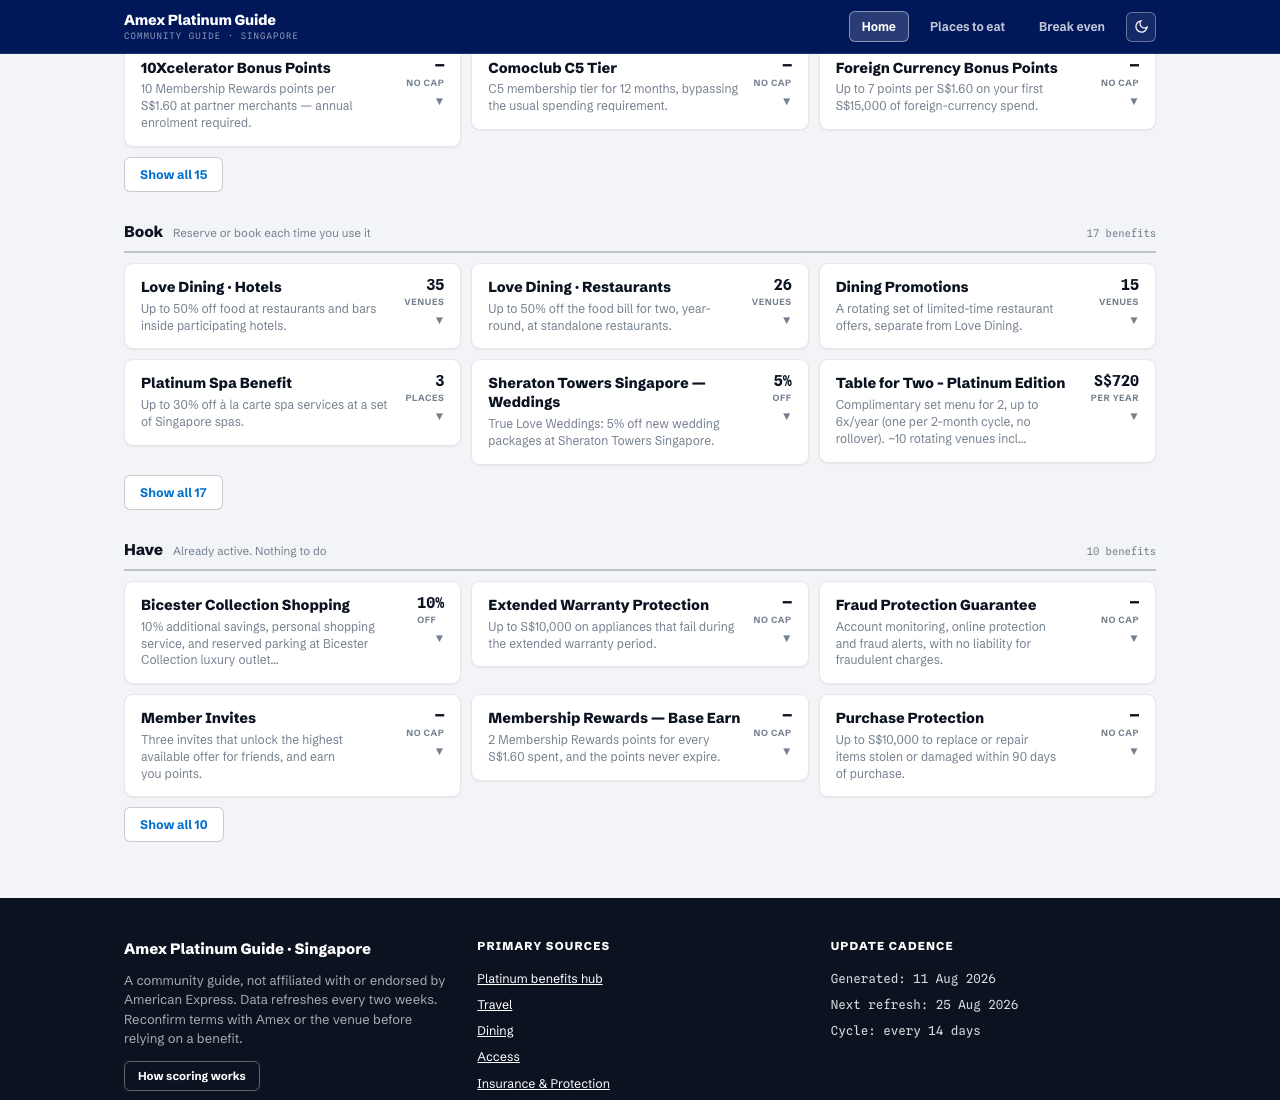
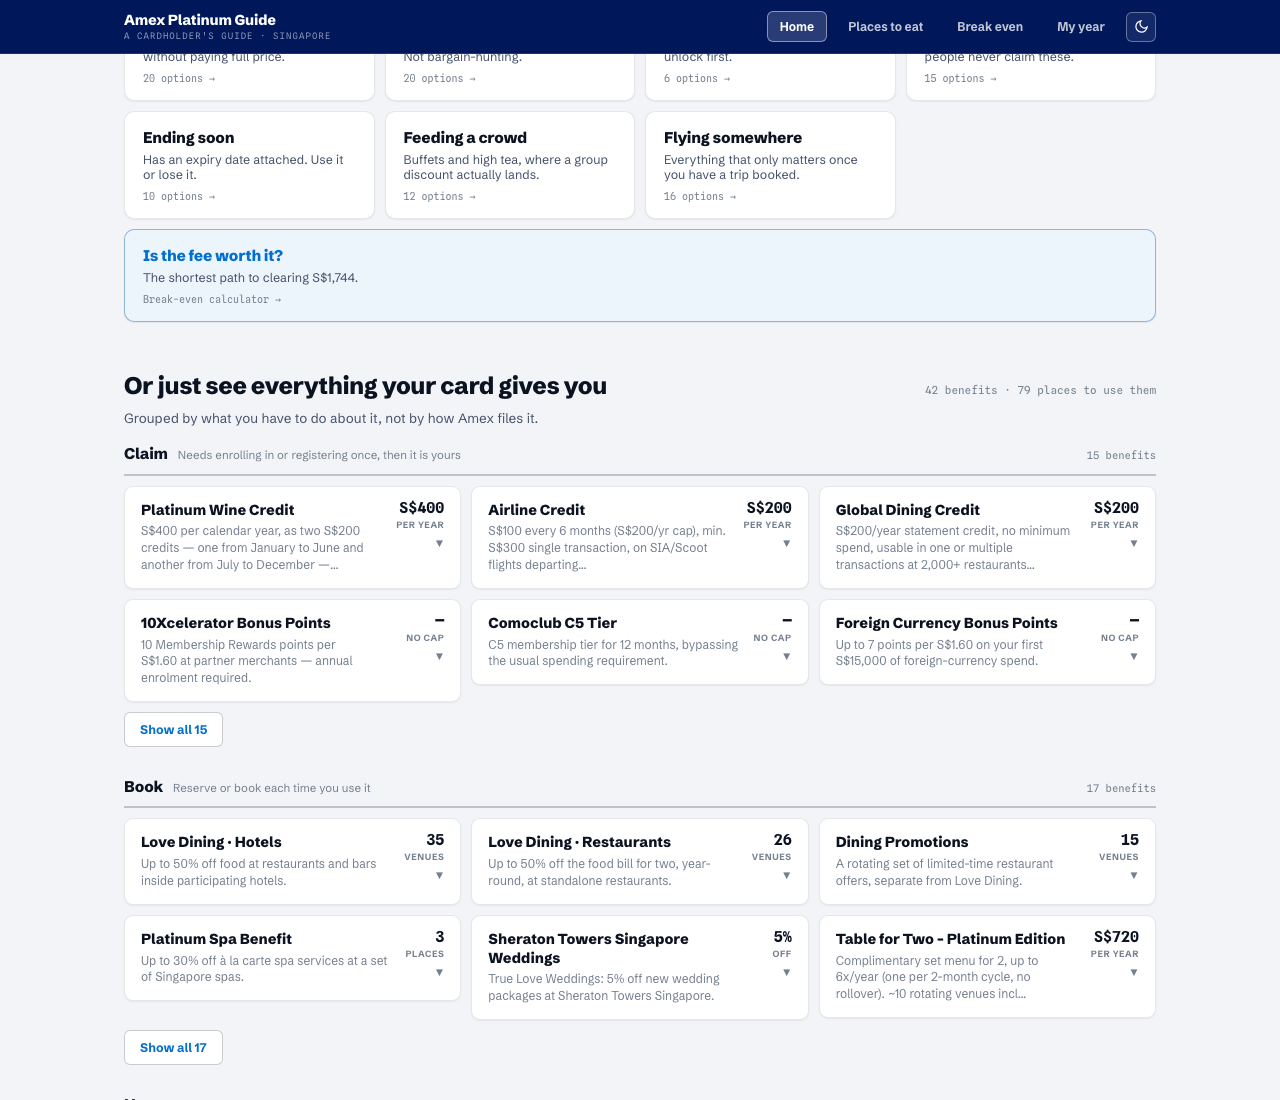
Add the year log, and re-cut the break-even path to five benefits
The tracker. Anything with a gross value can be ticked off as you use it,
benefit or venue alike, because a S$45 saving at one restaurant is worth
exactly as much as S$45 of statement credit. The count is kept in localStorage
and never leaves the browser, which the page says out loud.

It changes what the hero is for. Before you have used anything it makes the
case, five benefits clear the fee. After that it reports where you actually
are, and the nav carries a running total. That also settles the minimum versus
maximum problem Chin raised: the number stops being a claim about a typical
cardholder and becomes a fact about this one.

Caps are enforced in the arithmetic, not just the interface, so a benefit
capped at six uses cannot be logged a seventh time from anywhere.

The break-even path is re-cut from six benefits to five, and it is a better
path on every axis: Table for Two now runs to its full annual cap of six
rather than three, which lets the airline credit drop out entirely. Total goes
from S$1,850 to S$2,010 and the spending needed to collect it halves, from
S$1,200 to S$600. The first four benefits reach S$1,610, ninety-two per cent of
the fee, with no extra spending at all.

Two figures were wrong and are now derived rather than written down. The gloss
counted rendered rows as uses, so it said five uses for a path with eleven, and
it hard-coded "the two statement credits" when the re-cut leaves only one that
needs a qualifying transaction.
[…]

diff --git a/site/index.html b/site/index.html
@@ -78,6 +78,7 @@ button{font-family:var(--sans);cursor:pointer;}
 .hdr__nav{display:flex;gap:8px;align-items:center;}
 .tab{border:1px solid transparent;background:none;color:rgba(255,255,255,0.75);border-radius:6px;padding:7px 12px;font-size:12px;font-weight:700;white-space:nowrap;}
 .tab[aria-current="page"]{background:rgba(255,255,255,0.16);color:#fff;border-color:rgba(255,255,255,0.45);}
+.tab__n{margin-left:6px;font-family:var(--mono);font-size:10px;font-weight:700;background:#4ADE80;color:#04240f;border-radius:99px;padding:1px 6px;}
 .themebtn{border:1px solid rgba(255,255,255,0.35);background:rgba(255,255,255,0.08);color:#fff;border-radius:6px;width:30px;height:30px;display:inline-flex;align-items:center;justify-content:center;padding:0;flex:0 0 auto;}
 
 /* ── hero ───────────────────────────────────────────────────────────── */
@@ -90,8 +91,9 @@ button{font-family:var(--sans);cursor:pointer;}
 .hero__lede{margin:0;font-size:15px;line-height:1.5;color:rgba(255,255,255,0.78);max-width:46ch;text-wrap:pretty;}
 /* The one number the product exists to answer, so it sits in the hero. */
 .fee{margin-top:22px;max-width:42ch;}
-.fee__row{display:flex;justify-content:space-between;align-items:baseline;gap:12px;font-family:var(--mono);font-size:11px;color:rgba(255,255,255,0.75);margin-bottom:7px;}
-.fee__big{font-size:19px;font-weight:700;color:#fff;font-variant-numeric:tabular-nums;}
+.fee__big{margin:0 0 5px;font-size:clamp(17px,2vw,20px);font-weight:800;color:#fff;letter-spacing:-0.01em;line-height:1.25;}
+.fee__note{margin:0 0 10px;font-size:13px;color:rgba(255,255,255,0.7);}
+.fee__sub{margin:8px 0 0;font-family:var(--mono);font-size:10.5px;color:rgba(255,255,255,0.6);}
 .fee__bar{height:6px;border-radius:3px;background:rgba(255,255,255,0.16);overflow:hidden;}
 .fee__fill{height:100%;border-radius:3px;background:#4ADE80;transition:width .8s cubic-bezier(.2,.7,.2,1);}
 .prov{margin:20px 0 0;font-size:13px;line-height:1.55;color:rgba(255,255,255,0.62);max-width:44ch;}
@@ -192,6 +194,30 @@ button{font-family:var(--sans);cursor:pointer;}
 .pick__body{padding:12px 15px 13px;border-top:1px solid var(--line);}
 .morebtn{margin-top:10px;}
 
+/* ── the year log ───────────────────────────────────────────────────── */
+.stepper{display:inline-flex;align-items:center;gap:0;border:1px solid var(--linestrong);border-radius:6px;overflow:hidden;background:var(--card);}
+.stepper button{border:0;background:none;color:var(--blue);font-size:14px;font-weight:800;line-height:1;padding:6px 11px;font-family:var(--mono);}
+.stepper button:disabled{color:var(--muted);cursor:not-allowed;}
+.stepper__n{font-family:var(--mono);font-size:11.5px;font-weight:700;color:var(--ink);padding:0 8px;min-width:62px;text-align:center;font-variant-numeric:tabular-nums;}
+.logrow{display:flex;align-items:center;justify-content:space-between;gap:12px;margin-top:11px;padding-top:11px;border-top:1px solid var(--line);}
+.logrow__lbl{font-size:11.5px;color:var(--muted);font-weight:600;}
+.logrow__lbl b{color:var(--status-good);}
+.tally{background:var(--card);border:1px solid var(--line);border-radius:10px;padding:clamp(18px,3vw,26px);box-shadow:var(--shadow);margin-bottom:22px;}
+.tally__big{font-family:var(--mono);font-size:clamp(30px,5vw,40px);font-weight:700;color:var(--blue);font-variant-numeric:tabular-nums;line-height:1;}
+.tally__big--done{color:var(--status-good);}
+.tally__gloss{color:var(--sec);font-size:13.5px;max-width:52ch;margin:9px 0 0;}
+.tally__gloss b{color:var(--ink);}
+.tally__bar{height:10px;background:var(--sunk);border-radius:5px;overflow:hidden;margin:16px 0 0;}
+.tally__fill{height:100%;border-radius:5px;background:var(--blue);transition:width .8s cubic-bezier(.2,.7,.2,1);}
+.tally__fill--done{background:var(--status-good);}
+.logged{background:var(--card);border:1px solid var(--line);border-radius:10px;box-shadow:var(--shadow);overflow:hidden;}
+.logged__row{display:flex;align-items:center;justify-content:space-between;gap:14px;padding:12px 16px;border-top:1px solid var(--line);}
+.logged__row:first-child{border-top:0;}
+.logged__l{min-width:0;}
+.logged__name{display:block;font-size:13.5px;font-weight:700;color:var(--ink);}
+.logged__meta{display:block;font-size:11.5px;color:var(--muted);margin-top:2px;}
+.logged__v{font-family:var(--mono);font-size:14px;font-weight:700;color:var(--ink);font-variant-numeric:tabular-nums;white-space:nowrap;}
+
 /* ── payback ────────────────────────────────────────────────────────── */
 .pb__intro{max-width:70ch;margin-bottom:18px;}
 .pb__intro h2{font-size:clamp(20px,2.6vw,26px);font-weight:800;letter-spacing:-0.015em;margin:0 0 6px;color:var(--ink);}
@@ -249,6 +275,7 @@ button{font-family:var(--sans);cursor:pointer;}
       <button type="button" class="tab" data-act="view" data-view="home" aria-current="page">Home</button>
       <button type="button" class="tab" data-act="view" data-view="places">Places to eat</button>
       <button type="button" class="tab" data-act="view" data-view="payback">Break even</button>
+      <button type="button" class="tab" data-act="view" data-view="year">My year<span id="tab-year-n" class="tab__n" hidden></span></button>
       <button type="button" class="themebtn" data-act="theme" id="themebtn" aria-label="Switch to dark mode" title="Switch to dark mode">
         <svg id="theme-icon" width="15" height="15" viewBox="0 0 24 24" fill="none" stroke="currentColor" stroke-width="2" stroke-linecap="round" aria-hidden="true"></svg>
       </button>
@@ -263,8 +290,10 @@ button{font-family:var(--sans);cursor:pointer;}
       <h1>Make your Platinum Card pay for itself</h1>
       <p class="hero__lede">Every Amex Platinum benefit in Singapore, sourced from Amex's own pages. Say what you want to do and it shortlists the ones worth using.</p>
       <div class="fee">
-        <div class="fee__row"><span class="fee__big" id="fee-big">—</span><span id="fee-note"></span></div>
+        <p class="fee__big" id="fee-big">Loading…</p>
+        <p class="fee__note" id="fee-note"></p>
         <div class="fee__bar"><div class="fee__fill" id="fee-fill" style="width:0"></div></div>
+        <p class="fee__sub" id="fee-sub"></p>
       </div>
       <p class="prov" id="provenance">Loading…</p>
       <div class="fresh"><span class="fresh__dot" aria-hidden="true"></span><span id="freshness">Loading…</span></div>
@@ -338,6 +367,17 @@ button{font-family:var(--sans);cursor:pointer;}
   </section>
 
   <section class="view" id="view-payback" hidden></section>
+
+  <section class="view" id="view-year" hidden>
+    <div class="sechead">
+      <div>
+        <h2>Your year so far</h2>
+        <p>Tick a benefit off anywhere in the guide and it lands here. Kept in this browser only, never sent anywhere.</p>
+      </div>
+      <button type="button" class="ghostbtn" data-act="log-reset" id="log-reset" hidden>Start over</button>
+    </div>
+    <div id="year-body"></div>
+  </section>
 </main>
 
 <footer class="ftr">
@@ -383,7 +423,16 @@ const state = {
   moreEfforts: new Set(),
   theme: 'light',
   showMethod: false,
+  log: {},
 };
+
+const LOG_KEY = 'pbg-log-v1';
+function loadLog() {
+  try { return JSON.parse(localStorage.getItem(LOG_KEY)) || {}; } catch { return {}; }
+}
+function saveLog() {
+  try { localStorage.setItem(LOG_KEY, JSON.stringify(state.log)); } catch { /* private mode */ }
+}
 
 let map = null;
 let markers = [];
@@ -432,6 +481,26 @@ const badges = (e, { fit } = {}) => `
     ${e.expires ? `<span class="badge" style="background:var(--status-warning)">Ends ${esc(core.fmtDate(e.expires))}</span>` : ''}
   </div>`;
 
+// Ticking a use is the whole tracker. It sits inside the expanded card so it
+// never competes with the benefit's own numbers when collapsed.
+function stepper(e) {
+  if (!core.canLog(e)) return '';
+  const used = state.log[e.id] || 0;
+  const left = core.usesLeft(e, state.log);
+  const cap = e.annual_cap;
+  return `
+    <div class="logrow">
+      <span class="logrow__lbl">${used
+    ? `Used <b>${used}${cap ? ` of ${cap}` : ''}</b> · ${esc(core.fmtMoney(used * e.gross_value_sgd))} logged`
+    : `Worth ${esc(core.fmtMoney(e.gross_value_sgd))} each time${cap ? `, up to ${cap}×` : ''}`}</span>
+      <span class="stepper">
+        <button type="button" data-act="log" data-id="${esc(e.id)}" data-delta="-1" ${used ? '' : 'disabled'} aria-label="Remove a use of ${esc(e.name)}">−</button>
+        <span class="stepper__n">${used}${cap ? ` / ${cap}` : ''}</span>
+        <button type="button" data-act="log" data-id="${esc(e.id)}" data-delta="1" ${left > 0 ? '' : 'disabled'} aria-label="Log a use of ${esc(e.name)}">+</button>
+      </span>
+    </div>`;
+}
+
 const sourceFoot = (e, meta) => `
   <div class="foot">
     <span class="foot__meta">${esc(meta)}</span>
@@ -461,6 +530,7 @@ function benefitCard(e) {
       ${badges(e)}
       <p class="body">${esc(e.details || e.summary || '')}</p>
       ${sourceFoot(e, meta)}
+      ${stepper(e)}
       ${e.childCount ? `<button type="button" class="ben__open" data-act="parent" data-id="${esc(e.id)}">See all ${e.childCount} ${e.section === 'life' ? 'places' : 'venues'} →</button>` : ''}
     </div>` : ''}
   </article>`;
@@ -527,6 +597,7 @@ function pickCard(e, rank, fit) {
       ${badges(e, { fit })}
       <p class="body">${esc(e.details || e.summary || '')}</p>
       ${sourceFoot(e, meta)}
+      ${stepper(e)}
     </div>` : ''}
   </article>`;
 }
@@ -641,7 +712,7 @@ function renderPayback() {
     <div class="pb__panel">
       <div class="pb__top">
         <div class="pb__total">${esc(pb.total)}</div>
-        <div class="pb__gloss">from <b>${esc(pb.benefitCount)} benefits</b> across ${esc(pb.count)} uses, clearing the <b>${esc(fee)}</b> annual fee${esc(pb.surplusText)}. Collecting it means spending <b>${esc(core.fmtMoney(pb.outlaySgd))}</b> on the two statement credits.</div>
+        <div class="pb__gloss">from <b>${esc(pb.benefitCount)} benefits</b> across ${esc(pb.useCount)} uses, clearing the <b>${esc(fee)}</b> annual fee${esc(pb.surplusText)}.${pb.outlaySgd ? ` Collecting it means spending <b>${esc(core.fmtMoney(pb.outlaySgd))}</b> on ${pb.paidCount === 1 ? 'the one credit that needs a qualifying transaction' : `the ${esc(pb.paidCount)} credits that need a qualifying transaction`}.` : ''}</div>
       </div>
       <div class="pb__bar"><div class="pb__fill" style="width:${pb.pct}%"></div></div>
       <div>
@@ -661,6 +732,56 @@ function renderPayback() {
     </div>`;
 }
 
+// ──────────────────────────────────────────────────────────── the year view
+function renderYear() {
+  const d = state.data;
+  const t = core.logSummary(d, state.log);
+  $('log-reset').hidden = t.rows.length === 0;
+
+  if (!t.rows.length) {
+    $('year-body').innerHTML = `
+      <div class="empty">
+        Nothing logged yet. Open any benefit and press <b>+</b> when you use it.<br>
+        Five benefits are enough to clear the ${esc(core.fmtMoney(t.fee))} fee.
+      </div>`;
+    return;
+  }
+
+  const headline = t.cleared
+    ? `You are ${esc(core.fmtMoney(t.surplus))} ahead of the fee.`
+    : `${esc(core.fmtMoney(t.shortfall))} to go.`;
+
+  $('year-body').innerHTML = `
+    <div class="tally">
+      <div class="tally__big${t.cleared ? ' tally__big--done' : ''}">${esc(core.fmtMoney(t.totalSgd))}</div>
+      <p class="tally__gloss">
+        from <b>${t.benefitCount} benefit${t.benefitCount === 1 ? '' : 's'}</b> across ${t.uses} use${t.uses === 1 ? '' : 's'},
+        against the ${esc(core.fmtMoney(t.fee))} annual fee. <b>${headline}</b>
+      </p>
+      <div class="tally__bar"><div class="tally__fill${t.cleared ? ' tally__fill--done' : ''}" style="width:${t.pct}%"></div></div>
+      <p class="tally__gloss" style="font-size:12px;margin-top:12px">
+        You have logged ${t.benefitCount} of the ${esc(t.loggableCount)} things worth tracking here.
+      </p>
+    </div>
+    <div class="logged">
+      ${t.rows.map((r) => `
+        <div class="logged__row">
+          <span class="logged__l">
+            <span class="logged__name">${esc(r.entry.name)}</span>
+            <span class="logged__meta">${r.uses}× ${esc(core.fmtMoney(r.entry.gross_value_sgd))}${r.entry.annual_cap ? ` · cap ${r.entry.annual_cap}` : ''}</span>
+          </span>
+          <span style="display:flex;align-items:center;gap:12px">
+            <span class="logged__v">${esc(core.fmtMoney(r.value))}</span>
+            <span class="stepper">
+              <button type="button" data-act="log" data-id="${esc(r.entry.id)}" data-delta="-1" aria-label="Remove a use of ${esc(r.entry.name)}">−</button>
+              <span class="stepper__n">${r.uses}</span>
+              <button type="button" data-act="log" data-id="${esc(r.entry.id)}" data-delta="1" ${core.usesLeft(r.entry, state.log) > 0 ? '' : 'disabled'} aria-label="Log a use of ${esc(r.entry.name)}">+</button>
+            </span>
+          </span>
+        </div>`).join('')}
+    </div>`;
+}
+
 // ───────────────────────────────────────────────────────────────── chrome
 function setHtml(el, html) {
   el.innerHTML = html;
@@ -671,10 +792,7 @@ function setHtml(el, html) {
 
 function renderStatic() {
   const d = state.data;
-  const fee = core.feeProgress(d);
-  $('fee-big').textContent = `${core.fmtMoney(fee.claimed)} claimable`;
-  $('fee-note').textContent = `against the ${core.fmtMoney(fee.fee)} fee`;
-  $('fee-fill').style.width = `${fee.pct}%`;
+  renderFee();
   $('provenance').textContent =
     "Every benefit here is read off Amex's own Singapore pages, not a forum thread. "
     + `Amex changes these without notice, so the whole guide is rechecked every ${d.refresh_days ?? 14} days.`;
@@ -684,6 +802,35 @@ function renderStatic() {
     `Next refresh: ${core.fmtDate(d.next_refresh)}`,
     `Cycle: every ${d.refresh_days ?? 14} days`,
   ].map((t) => `<li>${esc(t)}</li>`).join('');
+}
+
+// The hero number tracks the log once there is one: before you have used
+// anything it makes the case, after that it reports where you actually are.
+function renderFee() {
+  const d = state.data;
+  const pb = core.paybackView(d);
+  const t = core.logSummary(d, state.log);
+  const fee = core.fmtMoney(d.card.annual_fee_sgd);
+
+  if (t.rows.length) {
+    $('fee-big').textContent = t.cleared
+      ? `You have cleared the ${fee} fee.`
+      : `${core.fmtMoney(t.totalSgd)} of the ${fee} fee, so far.`;
+    $('fee-note').textContent = t.cleared
+      ? `${core.fmtMoney(t.surplus)} ahead, from ${t.benefitCount} benefits.`
+      : `${core.fmtMoney(t.shortfall)} to go. Keep ticking benefits off as you use them.`;
+    $('fee-fill').style.width = `${t.pct}%`;
+    $('fee-sub').textContent = 'Counted in this browser only';
+  } else {
+    $('fee-big').textContent = `Five benefits clear the ${fee} fee.`;
+    $('fee-note').textContent = `Four of them need no extra spending at all, and get you ${core.fmtMoney(1610)} of the way.`;
+    $('fee-fill').style.width = `${Math.min(100, (1610 / d.card.annual_fee_sgd) * 100)}%`;
+    $('fee-sub').textContent = `Worked out from ${pb.benefitCount} benefits totalling ${pb.total}`;
+  }
+
+  const badge = $('tab-year-n');
+  badge.hidden = !t.rows.length;
+  badge.textContent = core.fmtMoney(t.totalSgd).replace('S$', '');
 }
 
 function renderModal() {
@@ -770,7 +917,7 @@ function ensureMap(rows, sig, elId) {
 // ──────────────────────────────────────────────────────────────── render
 function render() {
   mapToken += 1; // invalidates any mount retry queued by the previous render
-  const views = { home: 'view-home', results: 'view-results', places: 'view-places', payback: 'view-payback' };
+  const views = { home: 'view-home', results: 'view-results', places: 'view-places', payback: 'view-payback', year: 'view-year' };
   for (const [name, id] of Object.entries(views)) $(id).hidden = state.view !== name;
   for (const tab of document.querySelectorAll('.tab')) {
     if (state.view === tab.dataset.view) tab.setAttribute('aria-current', 'page');
@@ -786,6 +933,7 @@ function render() {
   if (state.view === 'home') renderHome();
   else if (state.view === 'results') renderResults();
   else if (state.view === 'places') renderPlaces();
+  else if (state.view === 'year') renderYear();
   else renderPayback();
   renderModal();
 }
@@ -846,6 +994,18 @@ document.addEventListener('click', (ev) => {
       if (state.moreEfforts.has(k)) state.moreEfforts.delete(k); else state.moreEfforts.add(k);
       break;
     }
+    case 'log': {
+      const entry = state.data.byId.get(el.dataset.id);
+      state.log = core.logUse(state.log, entry, Number(el.dataset.delta));
+      saveLog();
+      renderFee();
+      break;
+    }
+    case 'log-reset':
+      state.log = {};
+      saveLog();
+      renderFee();
+      break;
     case 'method-open': state.showMethod = true; break;
     case 'method-close': state.showMethod = false; break;
     default: return;
@@ -864,6 +1024,7 @@ const saved = localStorage.getItem('pbg-theme');
 applyTheme(saved || (window.matchMedia?.('(prefers-color-scheme: dark)').matches ? 'dark' : 'light'));
 
 try {
+  state.log = loadLog();
   state.data = await core.loadData();
   state.data.tax.effortByKey = Object.fromEntries(state.data.tax.efforts.map((e) => [e.key, e]));
   renderStatic();

diff --git a/site/guide-core.js b/site/guide-core.js
@@ -267,6 +267,64 @@ export function runScenario(data, scenario) {
   return rows.sort(sorter);
 }
 
+// ────────────────────────────────────────────────────────── the year's log
+// What you have actually used, as {entryId: uses}. Kept deliberately dumb: the
+// page owns storage, this owns the arithmetic, so both are testable alone.
+//
+// Anything with a gross value can be logged, benefit or venue alike, because
+// the value is real either way: a S$45 saving at one restaurant counts exactly
+// as much as S$200 of statement credit.
+
+export const canLog = (e) => e.gross_value_sgd != null && e.gross_value_sgd > 0;
+
+/** Uses left before the entry hits its annual cap. Infinity when uncapped. */
+export function usesLeft(entry, log) {
+  if (!canLog(entry)) return 0;
+  const used = log[entry.id] || 0;
+  return entry.annual_cap == null ? Infinity : Math.max(0, entry.annual_cap - used);
+}
+
+export function logUse(log, entry, delta = 1) {
+  const used = log[entry.id] || 0;
+  const cap = entry.annual_cap ?? Infinity;
+  const next = Math.max(0, Math.min(cap, used + delta));
+  const out = { ...log };
+  if (next === 0) delete out[entry.id]; else out[entry.id] = next;
+  return out;
+}
+
+export function logSummary(data, log) {
+  const rows = Object.entries(log)
+    .map(([id, uses]) => {
+      const entry = data.byId.get(id);
+      if (!entry || !uses) return null;
+      return { entry, uses, value: (entry.gross_value_sgd || 0) * uses };
+    })
+    .filter(Boolean)
+    .sort((a, b) => b.value - a.value);
+
+  const total = rows.reduce((sum, r) => sum + r.value, 0);
+  const fee = data.card.annual_fee_sgd;
+  // Deliberately a count, not a total. Summing every remaining use gives about
+  // S$54,000, which assumes maxing the cap on all 92 entries including twelve
+  // visits to every buffet. True, useless, and it would make every other figure
+  // on the page look invented.
+  const loggableCount = data.entries.filter(canLog).length;
+
+  return {
+    rows,
+    totalSgd: total,
+    fee,
+    pct: Math.min(100, (total / fee) * 100),
+    cleared: total >= fee,
+    shortfall: Math.max(0, fee - total),
+    surplus: Math.max(0, total - fee),
+    uses: rows.reduce((n, r) => n + r.uses, 0),
+    benefitCount: rows.length,
+    loggableCount,
+  };
+}
+
 // ─────────────────────────────────────────────────── fee progress
 // The one number the whole product exists to answer, so the header carries it.
 export function feeProgress(data) {
@@ -346,6 +404,10 @@ export function paybackView(data) {
   // used three times; counting rows made the page claim eight benefits when
   // the path only ever draws on six.
   const benefitCount = new Set(data.payback_path.steps.map((s) => s.ref)).size;
+  const useCount = data.payback_path.steps.reduce((n, s) => n + (s.uses || 1), 0);
+  // Which of them cost you something to collect, so the sentence can name them
+  // rather than hard-coding a number that goes stale when the path is re-cut.
+  const paidSteps = data.payback_path.steps.filter((s) => (data.byId.get(s.ref)?.min_spend_sgd || 0) > 0);
   // What you must spend to collect it. Two of the six are statement credits
   // that only pay out against a qualifying transaction, so the headline figure
   // is not free money and should never be presented as if it were.
@@ -358,6 +420,8 @@ export function paybackView(data) {
     total: fmtMoney(cum),
     totalSgd: cum,
     benefitCount,
+    useCount,
+    paidCount: paidSteps.length,
     outlaySgd: outlay,
     freeValueSgd: data.payback_path.steps.reduce((sum, s) => {
       const e = data.byId.get(s.ref);
